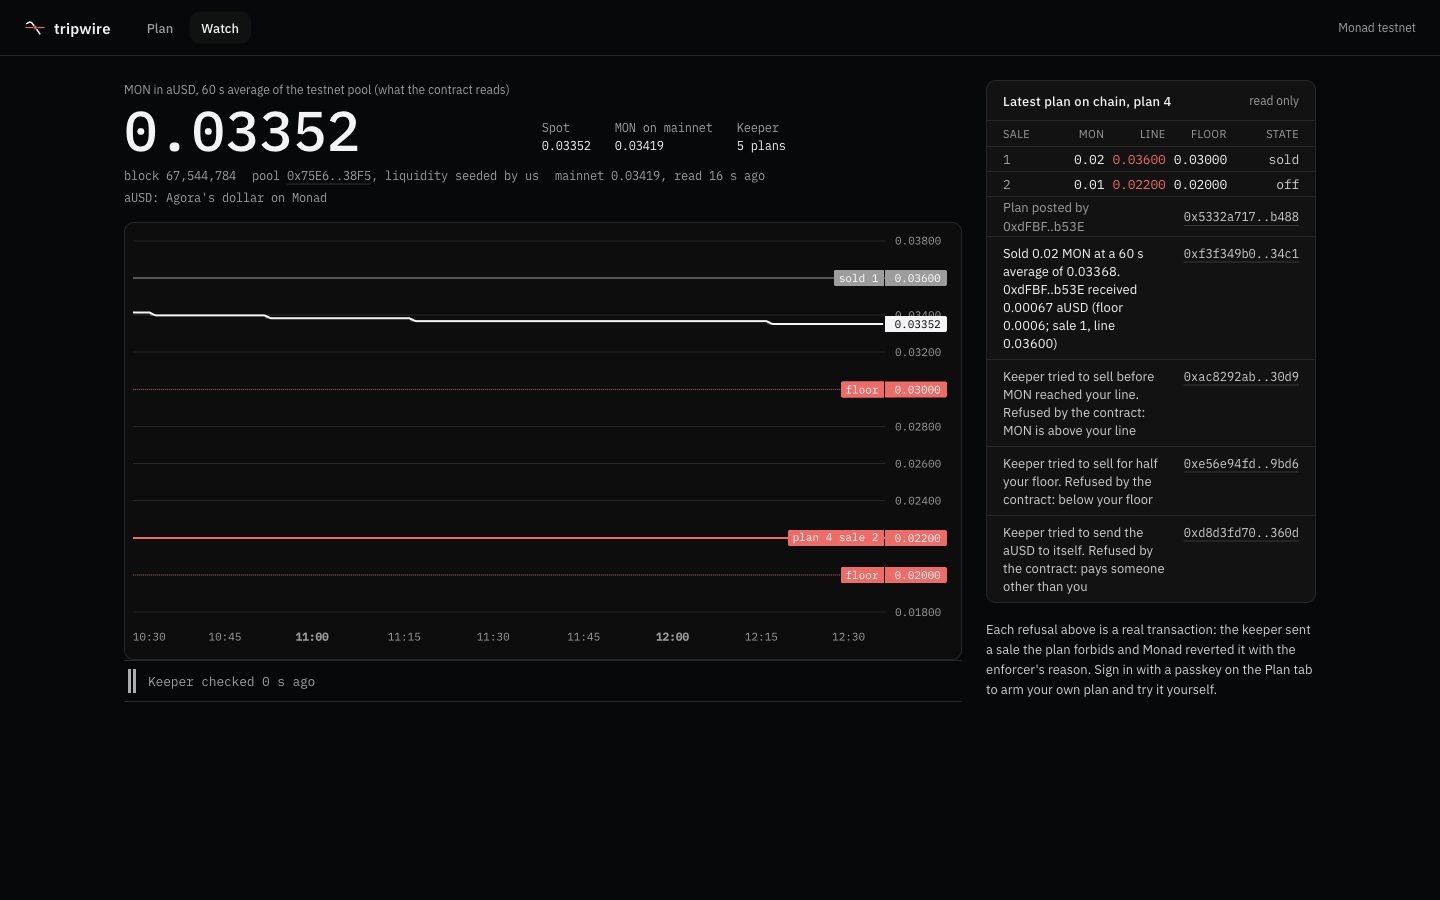
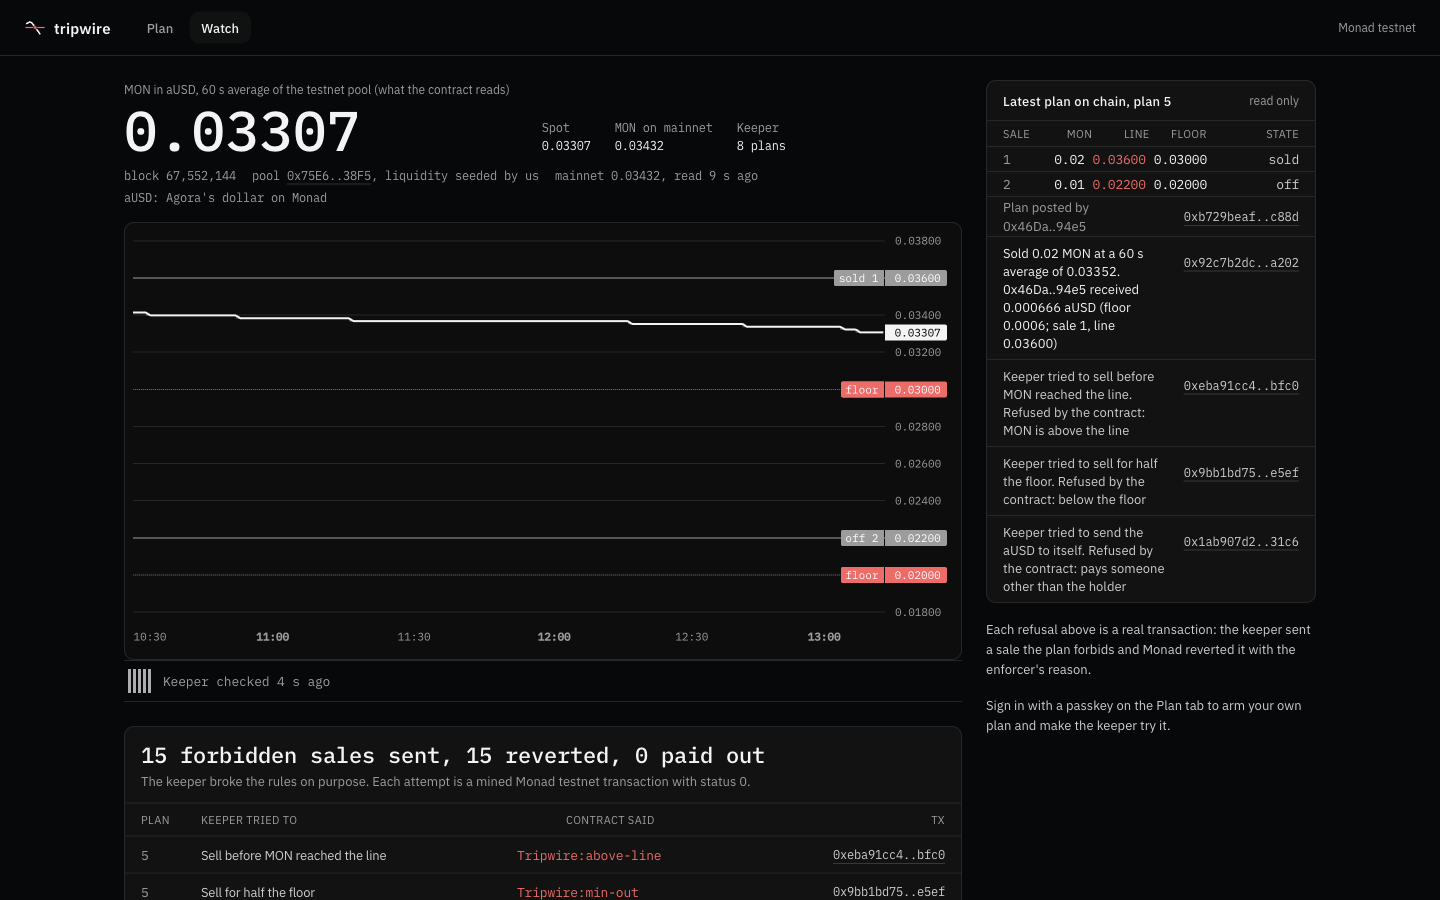
tripwire: critic 3 fixes; signed-out Watch leads with the forbidden-sales table and totals (15 sent, 15 reverted, 0 paid out) and always shows a plan with refusals; plan sentence reads as a stop, gap-below-floor and pool fee facts, summed minimum; revoked lines muted; larger touch targets; drip cap 

diff --git a/web/app/Watch.tsx b/web/app/Watch.tsx
@@ -63,19 +63,52 @@ function activity(p: PlanView, holder: string) {
   return rows;
 }
 
+const TRIED_SHORT: Record<string, string> = { line: "Sell before MON reached the line", floor: "Sell for half the floor", recipient: "Pay the aUSD to the keeper" };
+
+/** Signed out: every forbidden sale the keeper has sent, what the contract said, and the totals. */
+function Proof({ t }: { t: T }) {
+  const plans = t.recent?.plans ?? [];
+  const rows = plans.flatMap((p) => p.refused.map((r) => ({ ...r, plan: p.plan })));
+  const tot = t.recent?.totals;
+  if (rows.length === 0) return null;
+  return (
+    <section className="mt-6 rounded-[10px] border border-hairline bg-surface-card" aria-label="Forbidden sales">
+      <header className="border-b border-hairline px-4 py-3">
+        {tot && (
+          <p className="num text-[22px] font-medium leading-8 text-ink">
+            {tot.forbiddenSent} forbidden sales sent, {tot.forbiddenReverted} reverted, {tot.forbiddenPaidOut} paid out
+          </p>
+        )}
+        <p className="text-[13px] text-mute">The keeper broke the rules on purpose. Each attempt is a mined Monad testnet transaction with status 0.</p>
+      </header>
+      <div className="grid min-h-8 grid-cols-[48px_minmax(0,1fr)_minmax(0,1fr)_auto] items-center gap-3 px-4 text-[11px] uppercase tracking-[0.4px] text-mute">
+        <span>Plan</span><span>Keeper tried to</span><span>Contract said</span><span>Tx</span>
+      </div>
+      {rows.slice(0, 12).map((r) => (
+        <div key={r.hash} className="num grid min-h-9 grid-cols-[48px_minmax(0,1fr)_minmax(0,1fr)_auto] items-center gap-3 border-t border-hairline px-4 text-[13px]">
+          <span className="text-mute">{r.plan}</span>
+          <span className="font-sans text-body">{TRIED_SHORT[r.attack]}</span>
+          <span className="text-line">{r.reason}</span>
+          <TxLink hash={r.hash} />
+        </div>
+      ))}
+    </section>
+  );
+}
+
 export function PlanCard({ p, price, action, title }: { p: PlanView; price: number | null; action?: ReactNode; title?: string }) {
   return (
     <Card title={title ?? `Plan ${p.id}`} aside={action}>
-      <div className="grid min-h-[25px] grid-cols-[40px_1fr_1fr_1fr_64px] items-center gap-2 px-4 text-[11px] uppercase tracking-[0.4px] text-mute">
+      <div className="grid min-h-[25px] grid-cols-[32px_1fr_1fr_1fr_84px] items-center gap-2 px-4 text-[11px] uppercase tracking-[0.4px] text-mute">
         <span>Sale</span><span className="text-right">MON</span><span className="text-right">Line</span><span className="text-right">Floor</span><span className="text-right">State</span>
       </div>
       {p.tranches.map((x) => (
-        <div key={x.index} className="num grid min-h-[25px] grid-cols-[40px_1fr_1fr_1fr_64px] items-center gap-2 border-t border-hairline px-4 text-[13px]">
+        <div key={x.index} className="num grid min-h-[25px] grid-cols-[32px_1fr_1fr_1fr_84px] items-center gap-2 border-t border-hairline px-4 text-[13px]">
           <span className="text-mute">{x.index + 1}</span>
           <span className="text-right text-ink">{fmtMon(x.mon)}</span>
           <span className="text-right text-line">{fmtPrice(x.line)}</span>
           <span className="text-right text-ink">{fmtPrice(x.floorPerMon)}</span>
-          <span className="text-right text-body">{x.spent ? "sold" : p.revoked ? "off" : price !== null && price <= x.line ? "selling" : `-${(((price ?? 0) - x.line) / (price || 1) * 100).toFixed(1)}%`}</span>
+          <span className="text-right text-body">{x.spent ? "sold" : p.revoked ? "off" : price !== null && price <= x.line ? "selling" : `${(((price ?? 0) - x.line) / (price || 1) * 100).toFixed(1)}% to line`}</span>
         </div>
       ))}
       <ul className="border-t border-hairline">
@@ -100,7 +133,7 @@ export function Watch({ t, price, part }: { t: T; price: number | null; part: "s
   const next = target?.tranches.filter((x) => !x.spent).sort((a, b) => b.line - a.line)[0];
 
   if (!t.account) {
-    if (part === "summary") return null;
+    if (part === "summary") return <Proof t={t} />;
     return (
       <div className="flex flex-col gap-4">
         {t.publicPlan ? (
@@ -108,7 +141,10 @@ export function Watch({ t, price, part }: { t: T; price: number | null; part: "s
         ) : (
           <p className="text-[13px] text-mute">Reading the latest plan on chain.</p>
         )}
-        <p className="text-[13px] leading-5 text-body">Each refusal above is a real transaction: the keeper sent a sale the plan forbids and Monad reverted it with the enforcer's reason. Sign in with a passkey on the Plan tab to arm your own plan and try it yourself.</p>
+        {t.publicPlan && t.publicPlan.attacks.length > 0 && (
+          <p className="text-[13px] leading-5 text-body">Each refusal above is a real transaction: the keeper sent a sale the plan forbids and Monad reverted it with the enforcer's reason.</p>
+        )}
+        <p className="text-[13px] leading-5 text-body">Sign in with a passkey on the Plan tab to arm your own plan and make the keeper try it.</p>
       </div>
     );
   }

diff --git a/web/app/Ticket.tsx b/web/app/Ticket.tsx
@@ -47,7 +47,7 @@ export function Ticket({ t, plan, setPlan, price }: { t: T; plan: PlainTranche[]
       <Card>
         <div className="px-4 pb-4 pt-5">
           <p className="text-[14px] leading-6 text-body">
-            Sell <span className="num text-ink">{plan[0]?.mon || "0"}</span> MON when 1 MON is worth
+            Sell <span className="num text-ink">{plan[0]?.mon || "0"}</span> MON once MON&apos;s 60 s average is at or below
           </p>
           <label className="mt-1 flex items-baseline gap-2">
             <span className="sr-only">Line, in aUSD per MON</span>
@@ -68,22 +68,22 @@ export function Ticket({ t, plan, setPlan, price }: { t: T; plan: PlainTranche[]
           </p>
           <div className="mt-2 flex gap-2 overflow-x-auto">
             {[["Market", 0], ["-5%", -5], ["-10%", -10], ["-20%", -20]].map(([l, v]) => (
-              <button key={l} type="button" onClick={() => preset(v as number)} className="h-9 shrink-0 rounded-lg border border-hairline px-3 text-[13px] text-body hover:border-hairline-strong hover:text-ink">
+              <button key={l} type="button" onClick={() => preset(v as number)} className="h-10 shrink-0 rounded-lg border border-hairline px-3 text-[13px] text-body hover:border-hairline-strong hover:text-ink">
                 {l}
               </button>
             ))}
           </div>
         </div>
         <div className="border-t border-hairline">
-          <div className="grid h-8 grid-cols-[1fr_1fr_1fr_24px] items-center gap-2 px-4 text-[11px] uppercase tracking-[0.4px] text-mute">
-            <span>Sell MON</span><span className="text-right">At or below</span><span className="text-right" title="In a fast drop past the floor, that row does not sell">Floor, never less</span><span />
+          <div className="grid h-8 grid-cols-[1fr_1fr_1fr_36px] items-center gap-2 px-4 text-[11px] uppercase tracking-[0.4px] text-mute">
+            <span>Sell MON</span><span className="text-right">At or below</span><span className="text-right" title="In a fast drop past the floor, that row does not sell">Floor</span><span />
           </div>
           {plan.map((p, i) => (
-            <div key={i} className="grid h-10 grid-cols-[1fr_1fr_1fr_24px] items-center gap-2 border-t border-hairline px-4">
+            <div key={i} className="grid h-10 grid-cols-[1fr_1fr_1fr_36px] items-center gap-2 border-t border-hairline px-4">
               <input aria-label={`Tranche ${i + 1} MON`} inputMode="decimal" value={p.mon} onChange={(e) => set(i, "mon", e.target.value)} className="num h-8 w-full min-w-0 rounded-lg bg-surface px-2 text-[13px] text-ink outline-none" />
               <input aria-label={`Tranche ${i + 1} line`} inputMode="decimal" value={String(p.line)} onChange={(e) => set(i, "line", e.target.value)} className="num h-8 w-full min-w-0 rounded-lg bg-surface px-2 text-right text-[13px] text-line outline-none" />
               <input aria-label={`Tranche ${i + 1} floor`} inputMode="decimal" value={String(p.floor)} onChange={(e) => set(i, "floor", e.target.value)} className="num h-8 w-full min-w-0 rounded-lg bg-surface px-2 text-right text-[13px] text-ink outline-none" />
-              <button type="button" aria-label={`Remove tranche ${i + 1}`} disabled={plan.length === 1} onClick={() => setPlan(plan.filter((_, j) => j !== i))} className="text-[14px] text-mute hover:text-ink disabled:opacity-20">
+              <button type="button" aria-label={`Remove tranche ${i + 1}`} disabled={plan.length === 1} onClick={() => setPlan(plan.filter((_, j) => j !== i))} className="h-9 w-9 text-[16px] text-mute hover:text-ink disabled:opacity-20">
                 ×
               </button>
             </div>
@@ -103,8 +103,10 @@ export function Ticket({ t, plan, setPlan, price }: { t: T; plan: PlainTranche[]
         <Fact label="Pays only to">
           {t.account ? <span className="font-mono text-[12px]">{short(t.account.address, 8)}<Copy text={t.account.address} /></span> : <span className="text-mute">your passkey address</span>}
         </Fact>
+        <Fact label="If MON gaps below a floor">that sale does not fire; you keep the MON</Fact>
+        <Fact label="Pool fee">0.3%, Uniswap V3 WMON/aUSD</Fact>
         <Fact label="You receive at least">
-          {checked.tranches ? `${plan.map((p) => fmtAusd(Number(p.mon) * p.floor)).join(" + ")} aUSD` : "check the rows"}
+          {checked.tranches ? `${fmtAusd(plan.reduce((n, p) => n + Number(p.mon) * p.floor, 0))} aUSD` : "check the rows"}
         </Fact>
         <Fact label="Largest single sale">{checked.tranches ? `${fmtMon(largest)} MON` : "check the rows"}</Fact>
         <Fact label="In total, at most">{checked.tranches ? `${fmtMon(total)} MON` : "check the rows"}</Fact>

diff --git a/keeper/keeper.ts b/keeper/keeper.ts
@@ -257,8 +257,8 @@ async function attack(planId: number, kind: string): Promise<Attack> {
 // ---------- testnet MON drip for empty passkey accounts ----------
 
 const DRIP = parseEther("0.1");
-const DRIP_PER_IP_DAY = 2;
-const DRIP_PER_DAY = 20;
+const DRIP_PER_IP_DAY = 10;
+const DRIP_PER_DAY = 30;
 const dripped = new Set<string>();
 const dripLog: { at: number; ip: string }[] = [];
 
@@ -267,11 +267,11 @@ async function drip(address: string, ip: string) {
   if (!/^0x[0-9a-fA-F]{40}$/.test(address)) throw new Error("address=0x... required");
   const day = Date.now() - 86_400_000;
   while (dripLog.length && dripLog[0].at < day) dripLog.shift();
-  if (dripped.has(address.toLowerCase())) throw new Error("this address already got testnet MON from tripwire");
-  if (dripLog.filter((d) => d.ip === ip).length >= DRIP_PER_IP_DAY) throw new Error("two drips per day from one network; use faucet.monad.xyz");
-  if (dripLog.length >= DRIP_PER_DAY) throw new Error("today's drips are used up; use faucet.monad.xyz");
-  if ((await pub.getBalance({ address: address as `0x${string}` })) > 0n) throw new Error("this address already holds MON");
-  if ((await pub.getCode({ address: address as `0x${string}` })) && (await pub.getCode({ address: address as `0x${string}` })) !== "0x") throw new Error("only fresh accounts get a drip");
+  if (dripped.has(address.toLowerCase())) throw new Error("This passkey already got testnet MON from tripwire.");
+  if (dripLog.filter((d) => d.ip === ip).length >= DRIP_PER_IP_DAY) throw new Error("This network has used its testnet MON for today. faucet.monad.xyz sends more.");
+  if (dripLog.length >= DRIP_PER_DAY) throw new Error("Today's testnet MON from tripwire is used up. faucet.monad.xyz sends more.");
+  if ((await pub.getBalance({ address: address as `0x${string}` })) > 0n) throw new Error("This passkey already holds MON, so it can arm a plan now.");
+  if ((await pub.getCode({ address: address as `0x${string}` })) && (await pub.getCode({ address: address as `0x${string}` })) !== "0x") throw new Error("Only a fresh passkey account gets testnet MON from tripwire.");
   dripped.add(address.toLowerCase());
   dripLog.push({ at: Date.now(), ip });
   const w = createWalletClient({ account: dripper, chain, transport: http(net.rpc) });
@@ -319,7 +319,15 @@ Bun.serve({
           sales: p.fills.map((f) => ({ hash: f.hash, index: f.index, amountIn: f.amountIn, minOut: f.minOut, amountOut: f.amountOut ?? null, priceTick: f.priceTick })),
           refused: p.attacks.filter((a) => a.status === "reverted").map((a) => ({ hash: a.hash, attack: a.kind, reason: a.reason })),
         }));
-        return json({ plans, total: state.plans.length });
+        const attempts = state.plans.flatMap((p) => p.attacks);
+        const totals = {
+          plans: state.plans.length,
+          sales: state.plans.reduce((n, p) => n + p.fills.length, 0),
+          forbiddenSent: attempts.length,
+          forbiddenReverted: attempts.filter((a) => a.status === "reverted").length,
+          forbiddenPaidOut: attempts.filter((a) => a.status !== "reverted").length,
+        };
+        return json({ plans, total: state.plans.length, totals });
       }
       if (url.pathname === "/api/history") {
         return json({ points: state.history ?? [] });

diff --git a/web/app/StopChart.tsx b/web/app/StopChart.tsx
@@ -7,7 +7,7 @@ import { ColorType, LineSeries, LineStyle, createChart, type IChartApi, type ISe
 import type { Point } from "../lib/api";
 import { tickToPrice } from "../lib/plan";
 
-export type ChartLine = { price: number; floor: number; label: string; state: "draft" | "armed" | "sold" };
+export type ChartLine = { price: number; floor: number; label: string; state: "draft" | "armed" | "sold" | "off" };
 
 const INK = "#f4f4f6";
 const MUTE = "#9c9c9d";
@@ -64,13 +64,13 @@ export function StopChart({ points, lines, height = 280 }: { points: Point[]; li
     const made = lines.flatMap((l) => [
       s.createPriceLine({
         price: l.price,
-        color: l.state === "sold" ? MUTE : RED,
+        color: l.state === "sold" || l.state === "off" ? MUTE : RED,
         lineWidth: l.state === "armed" ? 2 : 1,
         lineStyle: l.state === "draft" ? LineStyle.LargeDashed : LineStyle.Solid,
         axisLabelVisible: true,
         title: l.label,
       }),
-      s.createPriceLine({ price: l.floor, color: "rgba(255,97,97,0.55)", lineWidth: 1, lineStyle: LineStyle.Dotted, axisLabelVisible: true, title: "floor" }),
+      s.createPriceLine({ price: l.floor, color: l.state === "sold" || l.state === "off" ? "rgba(156,156,157,0.45)" : "rgba(255,97,97,0.55)", lineWidth: 1, lineStyle: LineStyle.Dotted, axisLabelVisible: true, title: "floor" }),
     ]);
     // keep every line in view, not just the price
     s.applyOptions({

diff --git a/web/app/useTripwire.ts b/web/app/useTripwire.ts
@@ -50,7 +50,8 @@ export function useTripwire() {
   const mine = usePoll<{ plans: PlanView[] } | null>(async () => (account ? keeperApi.plans(account.address) : null), 4000, [account?.address, refresh]);
   const recent = usePoll(keeperApi.recent, 8000, []);
   // the newest plan on chain, shown read-only to anyone not signed in
-  const latestHolder = recent.data?.plans.find((p) => p.sales.length || p.refused.length)?.holder ?? null;
+  // the newest plan that carries refused calls, so the proof never disappears when someone arms a fresh plan
+  const latestHolder = recent.data?.plans.find((p) => p.refused.length > 0)?.holder ?? null;
   const publicPlans = usePoll<{ plans: PlanView[] } | null>(async () => (latestHolder && !account ? keeperApi.plans(latestHolder) : null), 8000, [latestHolder, account?.address]);
   const held = usePoll<Holdings | null>(async () => (account ? holdings(net, account.address) : null), 5000, [account?.address, refresh]);
 
@@ -119,7 +120,7 @@ export function useTripwire() {
     plansLoaded: mine.at > 0,
     holdings: held.data,
     recent: recent.data,
-    publicPlan: publicPlans.data?.plans.find((p) => p.fills.length || p.attacks.length) ?? null,
+    publicPlan: [...(publicPlans.data?.plans ?? [])].reverse().find((p) => p.attacks.length > 0) ?? null,
     busy,
     steps,
     error,

diff --git a/web/app/page.tsx b/web/app/page.tsx
@@ -59,7 +59,7 @@ export default function Page() {
   const lines: ChartLine[] = useMemo(() => {
     if (tab === "plan") return plan.filter((p) => p.line > 0 && p.floor > 0).map((p) => ({ price: p.line, floor: p.floor, label: `sell ${p.mon}`, state: "draft" as const }));
     const shown = t.account ? t.plans : t.publicPlan ? [t.publicPlan] : [];
-    return shown.filter((p) => !p.revoked || !t.account).flatMap((p) => p.tranches.map((x) => ({ price: x.line, floor: x.floorPerMon, label: x.spent ? `sold ${x.index + 1}` : `plan ${p.id} sale ${x.index + 1}`, state: x.spent ? ("sold" as const) : ("armed" as const) })));
+    return shown.filter((p) => !p.revoked || !t.account).flatMap((p) => p.tranches.map((x) => ({ price: x.line, floor: x.floorPerMon, label: x.spent ? `sold ${x.index + 1}` : p.revoked ? `off ${x.index + 1}` : `plan ${p.id} sale ${x.index + 1}`, state: x.spent ? ("sold" as const) : p.revoked ? ("off" as const) : ("armed" as const) })));
   }, [tab, plan, t.plans, t.publicPlan, t.account]);
 
   return (

diff --git a/web/app/Record.tsx b/web/app/Record.tsx
@@ -33,7 +33,7 @@ export function Record({ plans }: { plans: RecentPlan[] | null }) {
                 <div className="mt-1.5 flex flex-wrap items-center gap-1.5">
                   <span className="text-mute">Refused:</span>
                   {p.refused.map((r) => (
-                    <a key={r.hash} href={txUrl(r.hash)} target="_blank" rel="noreferrer" title={`${r.reason}, ${r.hash}`} className="num inline-flex h-7 items-center rounded-md border border-hairline px-2 text-[12px] text-body hover:border-hairline-strong hover:text-ink">
+                    <a key={r.hash} href={txUrl(r.hash)} target="_blank" rel="noreferrer" title={`${r.reason}, ${r.hash}`} className="num inline-flex h-9 items-center rounded-md border border-hairline px-2 text-[12px] text-body hover:border-hairline-strong hover:text-ink">
                       {CHIP[r.attack]} <span className="ml-1.5 text-mute">{r.reason.replace("Tripwire:", "")}</span>
                     </a>
                   ))}

diff --git a/web/lib/api.ts b/web/lib/api.ts
@@ -34,7 +34,7 @@ export const keeperApi = {
   status: () => get<Status>("/api/status"),
   history: () => get<{ points: Point[] }>("/api/history"),
   plans: (holder: Hex) => get<{ plans: PlanView[] }>(`/api/plans?holder=${holder}`),
-  recent: () => get<{ plans: RecentPlan[]; total: number }>("/api/recent"),
+  recent: () => get<{ plans: RecentPlan[]; total: number; totals?: { plans: number; sales: number; forbiddenSent: number; forbiddenReverted: number; forbiddenPaidOut: number } }>("/api/recent"),
   drip: async (address: Hex): Promise<{ hash: Hex }> => {
     const r = await fetch(`${BASE}/api/drip`, { method: "POST", headers: { "content-type": "application/json" }, body: JSON.stringify({ address }) });
     const body = await r.json();

diff --git a/web/app/parts.tsx b/web/app/parts.tsx
@@ -40,7 +40,7 @@ export function Fact({ label, children }: { label: string; children: ReactNode }
 
 export function TxLink({ hash, label }: { hash: Hex; label?: string }) {
   return (
-    <a href={txUrl(hash)} target="_blank" rel="noreferrer" className="font-mono text-[12px] text-body underline decoration-hairline-strong underline-offset-4 hover:text-ink">
+    <a href={txUrl(hash)} target="_blank" rel="noreferrer" className="inline-flex min-h-9 items-center font-mono text-[12px] text-body underline decoration-hairline-strong underline-offset-4 hover:text-ink">
       {label ?? short(hash, 10)}
     </a>
   );
